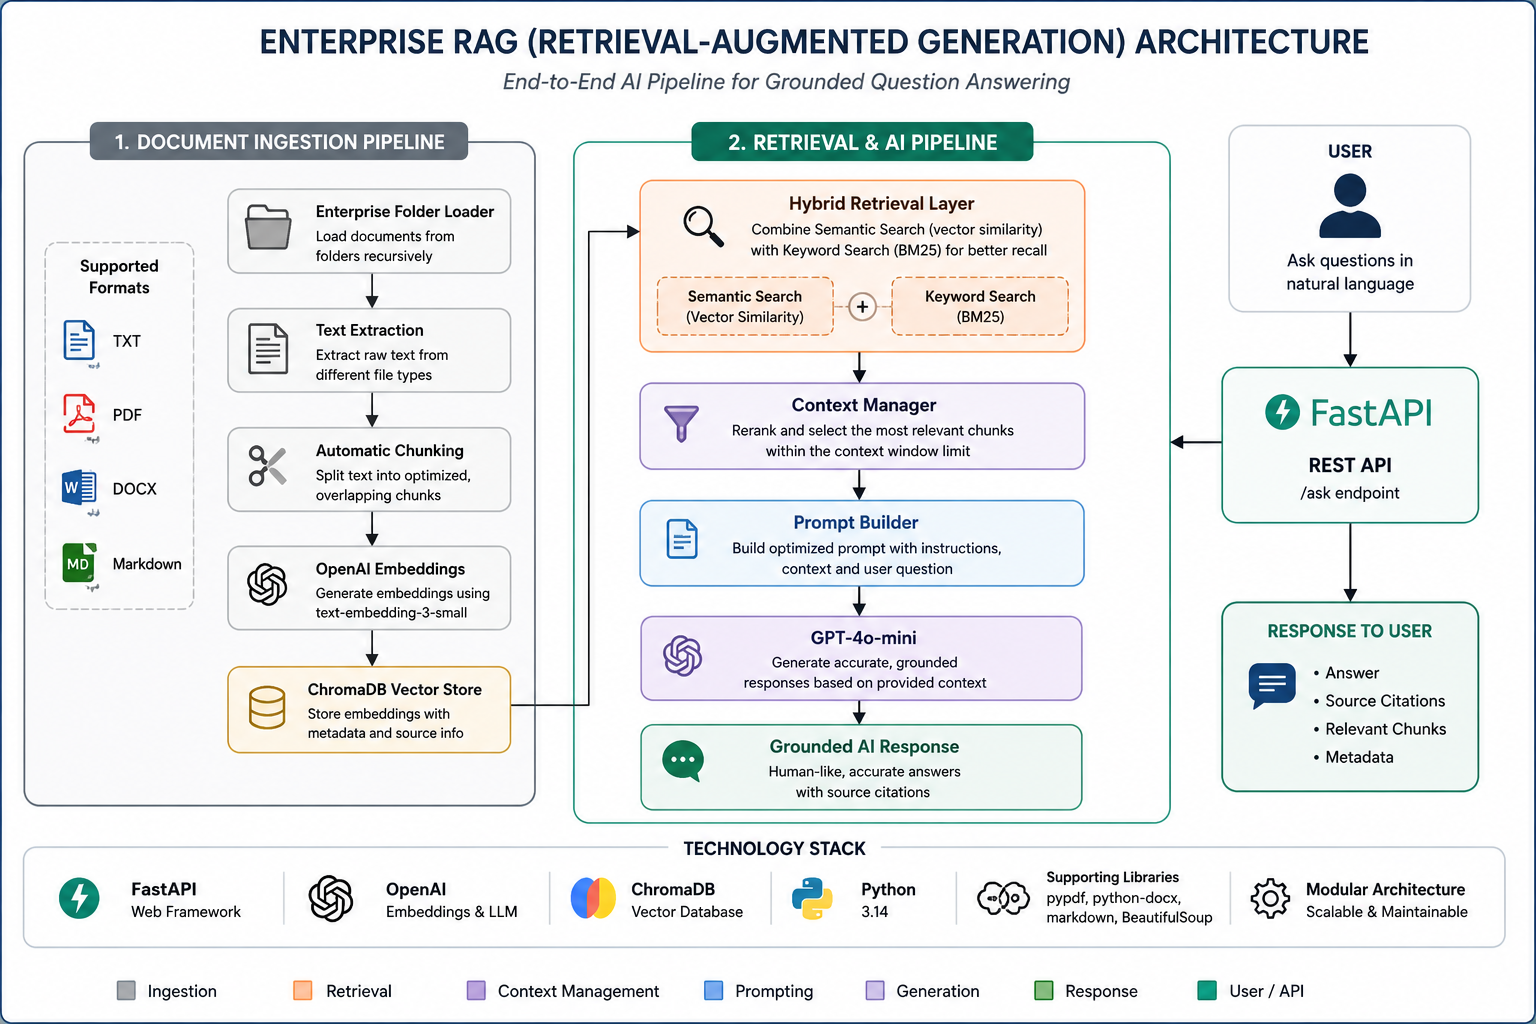
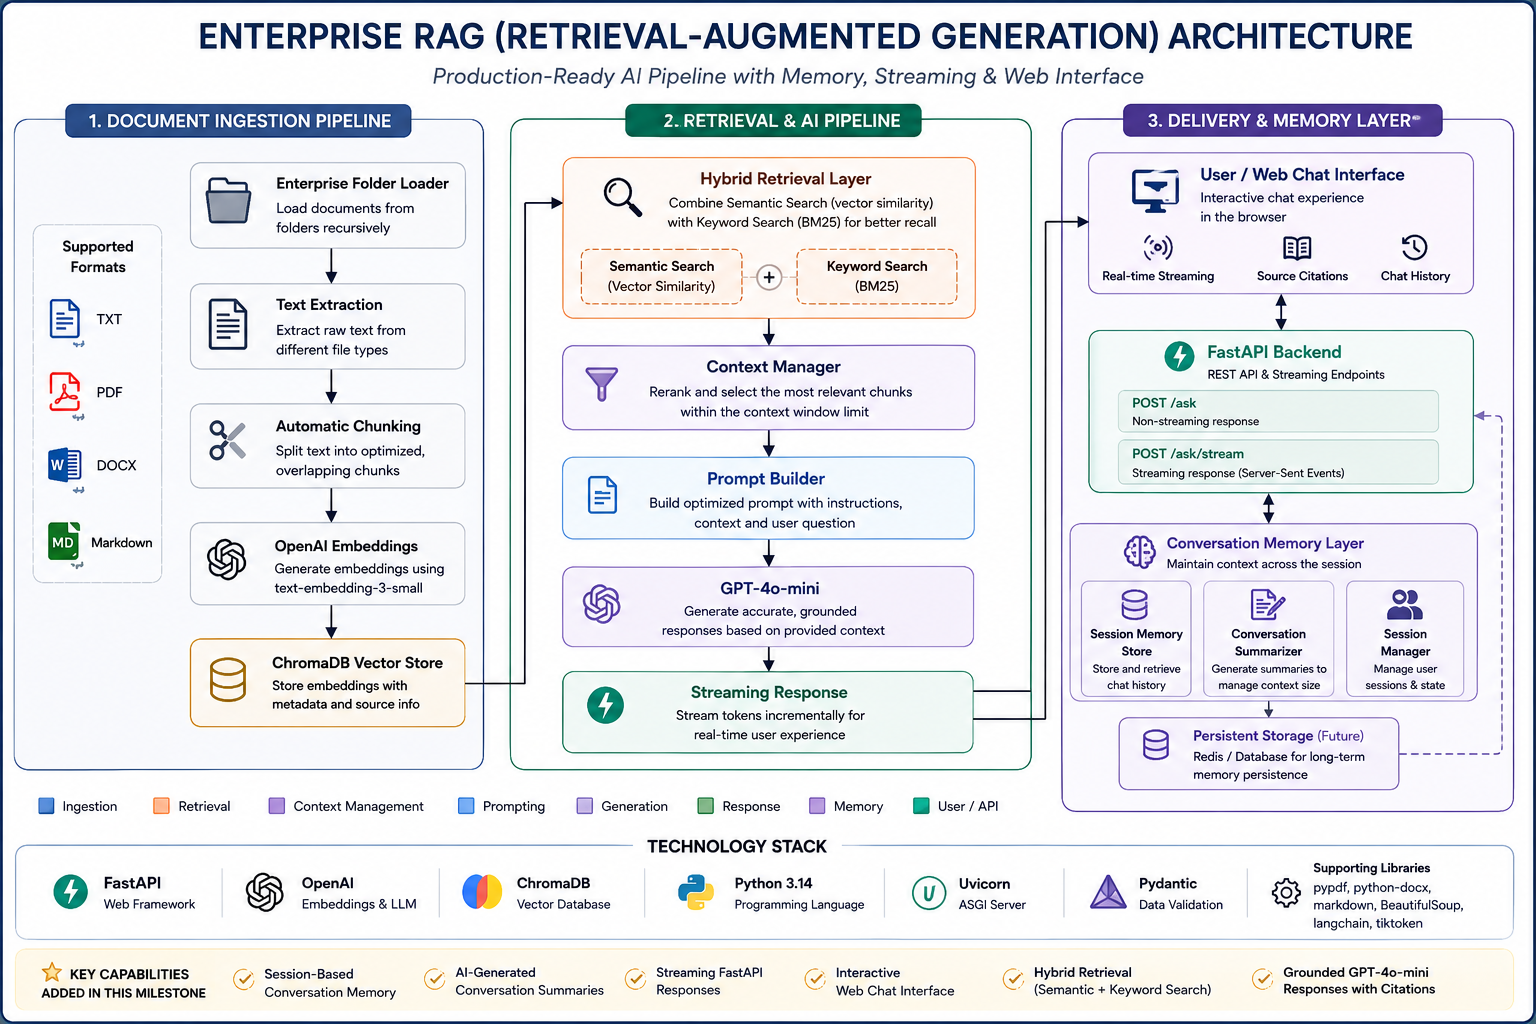
Complete conversation memory, streaming, and web interface

diff --git a/README.md b/README.md
@@ -5,7 +5,7 @@
 ![License](https://img.shields.io/badge/License-MIT-green)
 
 
-# Enterprise AI RAG Learning Assistant
+# Enterprise-AI-RAG-System
 
 Production-grade Retrieval-Augmented Generation (RAG) application built with FastAPI, OpenAI Embeddings, ChromaDB, and GPT-4o-mini.
 